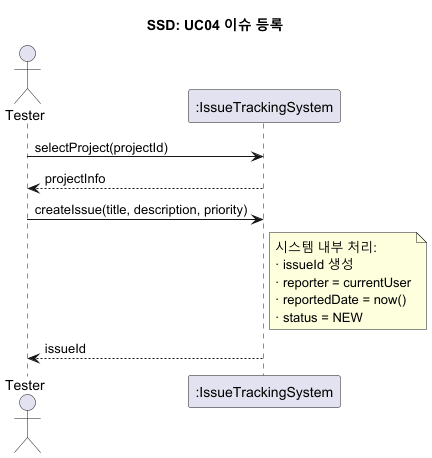
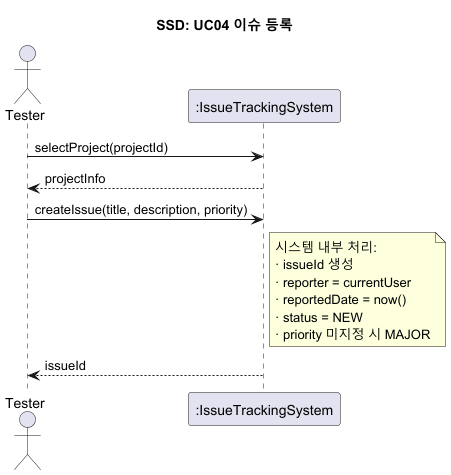
docs(analysis): adopt system-side priority default + strengthen spec citations
OC #1: priority Precondition relaxed (allow null), Postcondition adds 'MAJOR if unspecified'. SSD note: priority default rule added for SSD-OC consistency. assumptions.md: cite spec sections 2.2/2.3 directly (replace '5/4 presentation' references).

diff --git a/docs/analysis/assumptions.md b/docs/analysis/assumptions.md
@@ -16,9 +16,13 @@
 - 출처: 5/7 회의 합의
 - 명세서에 필드 명세는 5단계, 시나리오는 6단계로 차이가 있어서 시나리오 쪽을 따름 (FIXED 추가)
 
+> 명세 2.2절 시나리오: new → assigned → fixed → resolved → closed/reopened (6단계)
+> 명세 2.3절 필드 명세: new/assigned/resolved/closed/reopened (5단계, fixed 누락)
+> 5/7 회의 합의: 명세 자체 모순을 시나리오 기준 6단계로 해결.
+
 ## 가정 2. 이슈 필드 구성
 
-5/4 회의 발제 기반.
+명세서 2.3절 (이슈 필드 정의)
 
 | 필드 | 설정 방식 | 비고 |
 |---|---|---|
@@ -37,7 +41,7 @@ Priority 5단계: `BLOCKER` / `CRITICAL` / `MAJOR` / `MINOR` / `TRIVIAL`
 > 출처: 명세서 2.3절 "이슈 필드 및 assignee 추천 관련" 직접 인용.
 > 명세서가 "최소이며, 필요에 따라 필드를 추가할 수 있고, 프로젝트 문서에서
 > 설명할 것"이라고 박은 *최소 필드 셋*.
-> 
+
 ## 가정 3. include / extend 관계
 
 5/7 회의 합의 기준.
@@ -56,9 +60,6 @@ Priority 5단계: `BLOCKER` / `CRITICAL` / `MAJOR` / `MINOR` / `TRIVIAL`
 | UC11 추천 확인 | UC08 담당자 배정 | 선택 기능, 조건부 |
 | UC07 코멘트 추가 | UC06 이슈 상세 조회 | 상세 조회 중 조건부 코멘트 |
 
-> 명세 2.2절 시나리오: new → assigned → fixed → resolved → closed/reopened (6단계)
-> 명세 2.3절 필드 명세: new/assigned/resolved/closed/reopened (5단계, fixed 누락)
-> 5/7 회의 합의: 명세 자체 모순을 시나리오 기준 6단계로 해결.
 
 ## 가정 4. 시스템 오퍼레이션 명명
 
@@ -82,6 +83,7 @@ Priority 5단계: `BLOCKER` / `CRITICAL` / `MAJOR` / `MINOR` / `TRIVIAL`
 |---|---|---|
 | selectProject(projectId) | X | 단순 조회 |
 | createIssue(title, description, priority) | ⭐ OC #1 | 객체 생성형 핵심 오퍼레이션 |
+
 ## 변경 이력
 
 - 2026-05-10: 초안 작성 (김태영)

diff --git a/docs/analysis/oc/oc_create_issue.md b/docs/analysis/oc/oc_create_issue.md
@@ -16,12 +16,13 @@
 - 활성 프로젝트(`currentProject`)가 `selectProject(projectId)`로 선택되어 있다.
 - `title`은 길이 1 이상의 문자열이다.
 - `description`은 길이 1 이상의 문자열이다.
-- `priority`는 `{BLOCKER, CRITICAL, MAJOR, MINOR, TRIVIAL}` 중 하나이다.
+- `priority`가 명시된 경우, `{BLOCKER, CRITICAL, MAJOR, MINOR, TRIVIAL}` 중 하나이다. (미지정 호출 허용)
 
 ## Postconditions
 
 - 새 `Issue` 인스턴스 `i`가 생성되었다. *(instance creation)*
-- `i.title := title`, `i.description := description`, `i.priority := priority`로 설정되었다. *(attribute modification)*
+- `i.title := title`, `i.description := description`으로 설정되었다. *(attribute modification)*
+- `priority`가 명시된 경우 `i.priority := priority`, 미지정인 경우 `i.priority := MAJOR`로 설정되었다. *(attribute modification)*
 - `i.reporter := currentUser`로 설정되었다. *(attribute modification)*
 - `i.reportedDate := 현재 시각`으로 설정되었다. *(attribute modification)*
 - `i.status := NEW`로 설정되었다. *(attribute modification)*
@@ -33,7 +34,7 @@
 
 - Postcondition은 Larman 원칙에 따라 *상태 변화*(instance creation / attribute modification / association formed)만 기술한다. 알고리즘, UI 동작, 검증 로직은 OC 범위 밖이다.
 - `issueId` 생성 방식(UUID, sequential 등)은 클래스 다이어그램 단계에서 결정한다.
-- `priority` 기본값(MAJOR) 처리는 UI에서 채워 보내는 것으로 가정하여 Precondition에 강하게 명시한다.
+- `priority` 기본값(MAJOR) 처리는 시스템 책임. 명세 2.3절 *"기본값은 major"* 직접 인용 + MVC 원칙(비즈니스 룰은 모델)에 따라 시스템이 default 설정.
 
 ## 변경 이력
 
